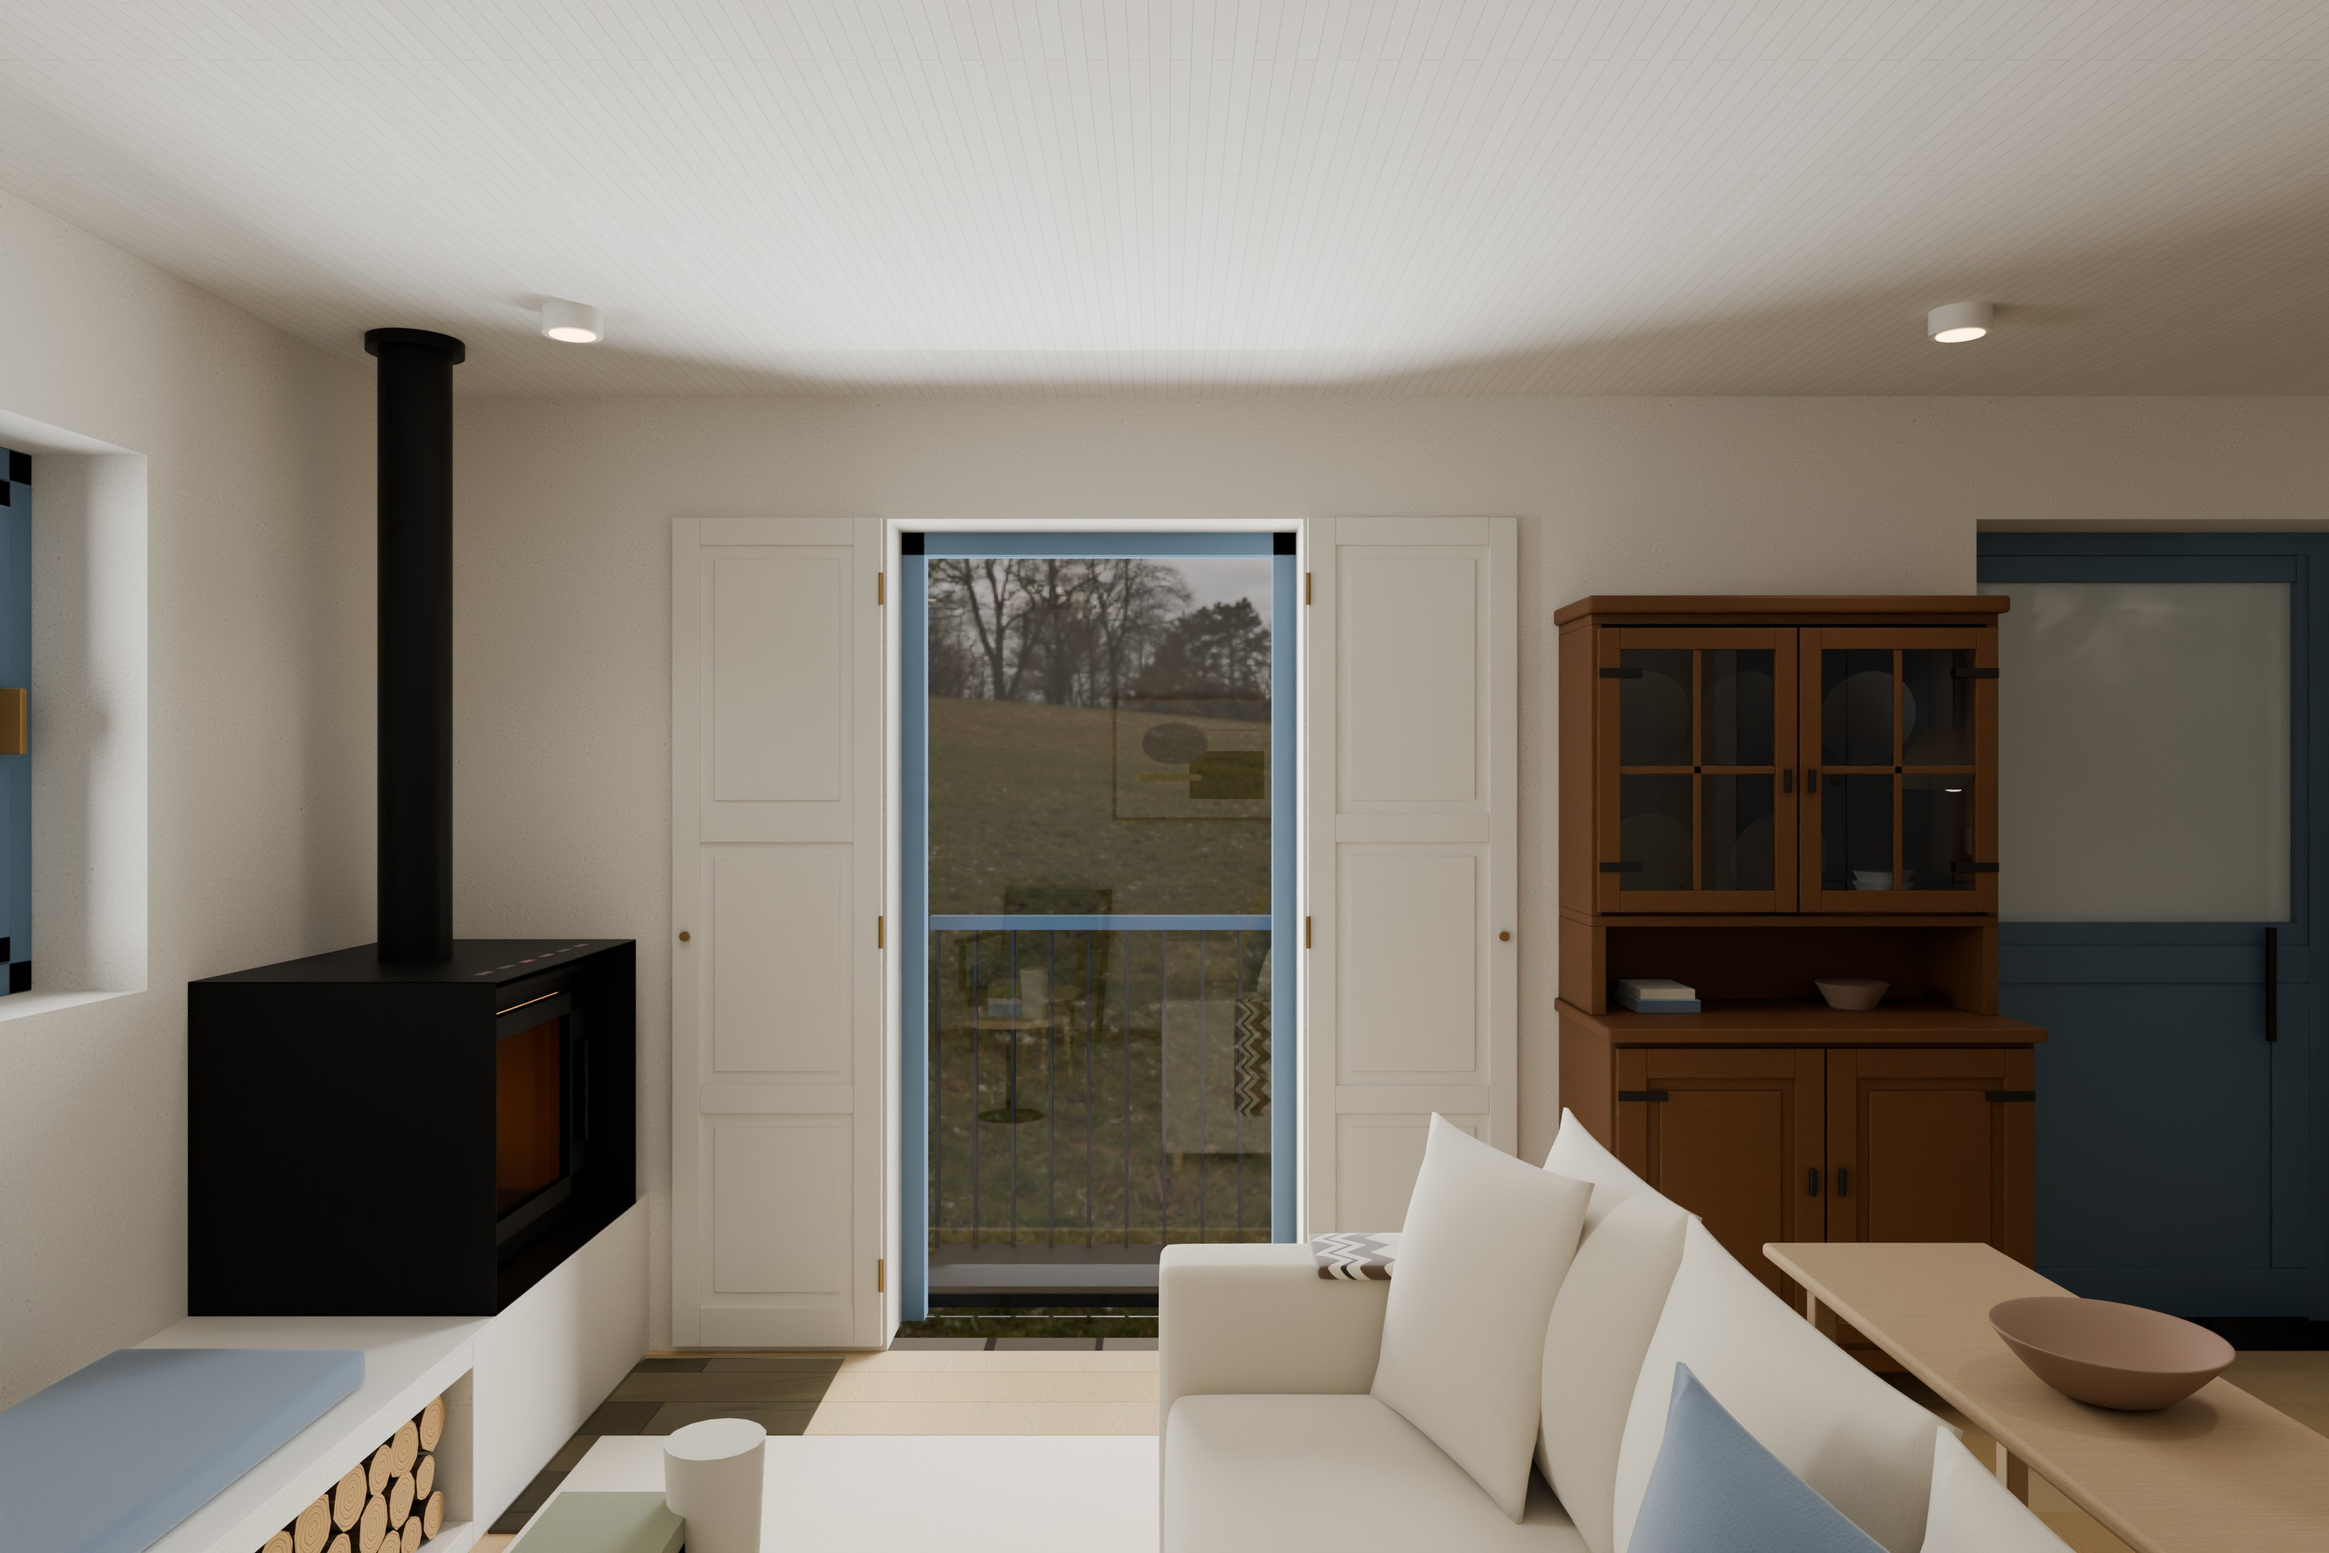
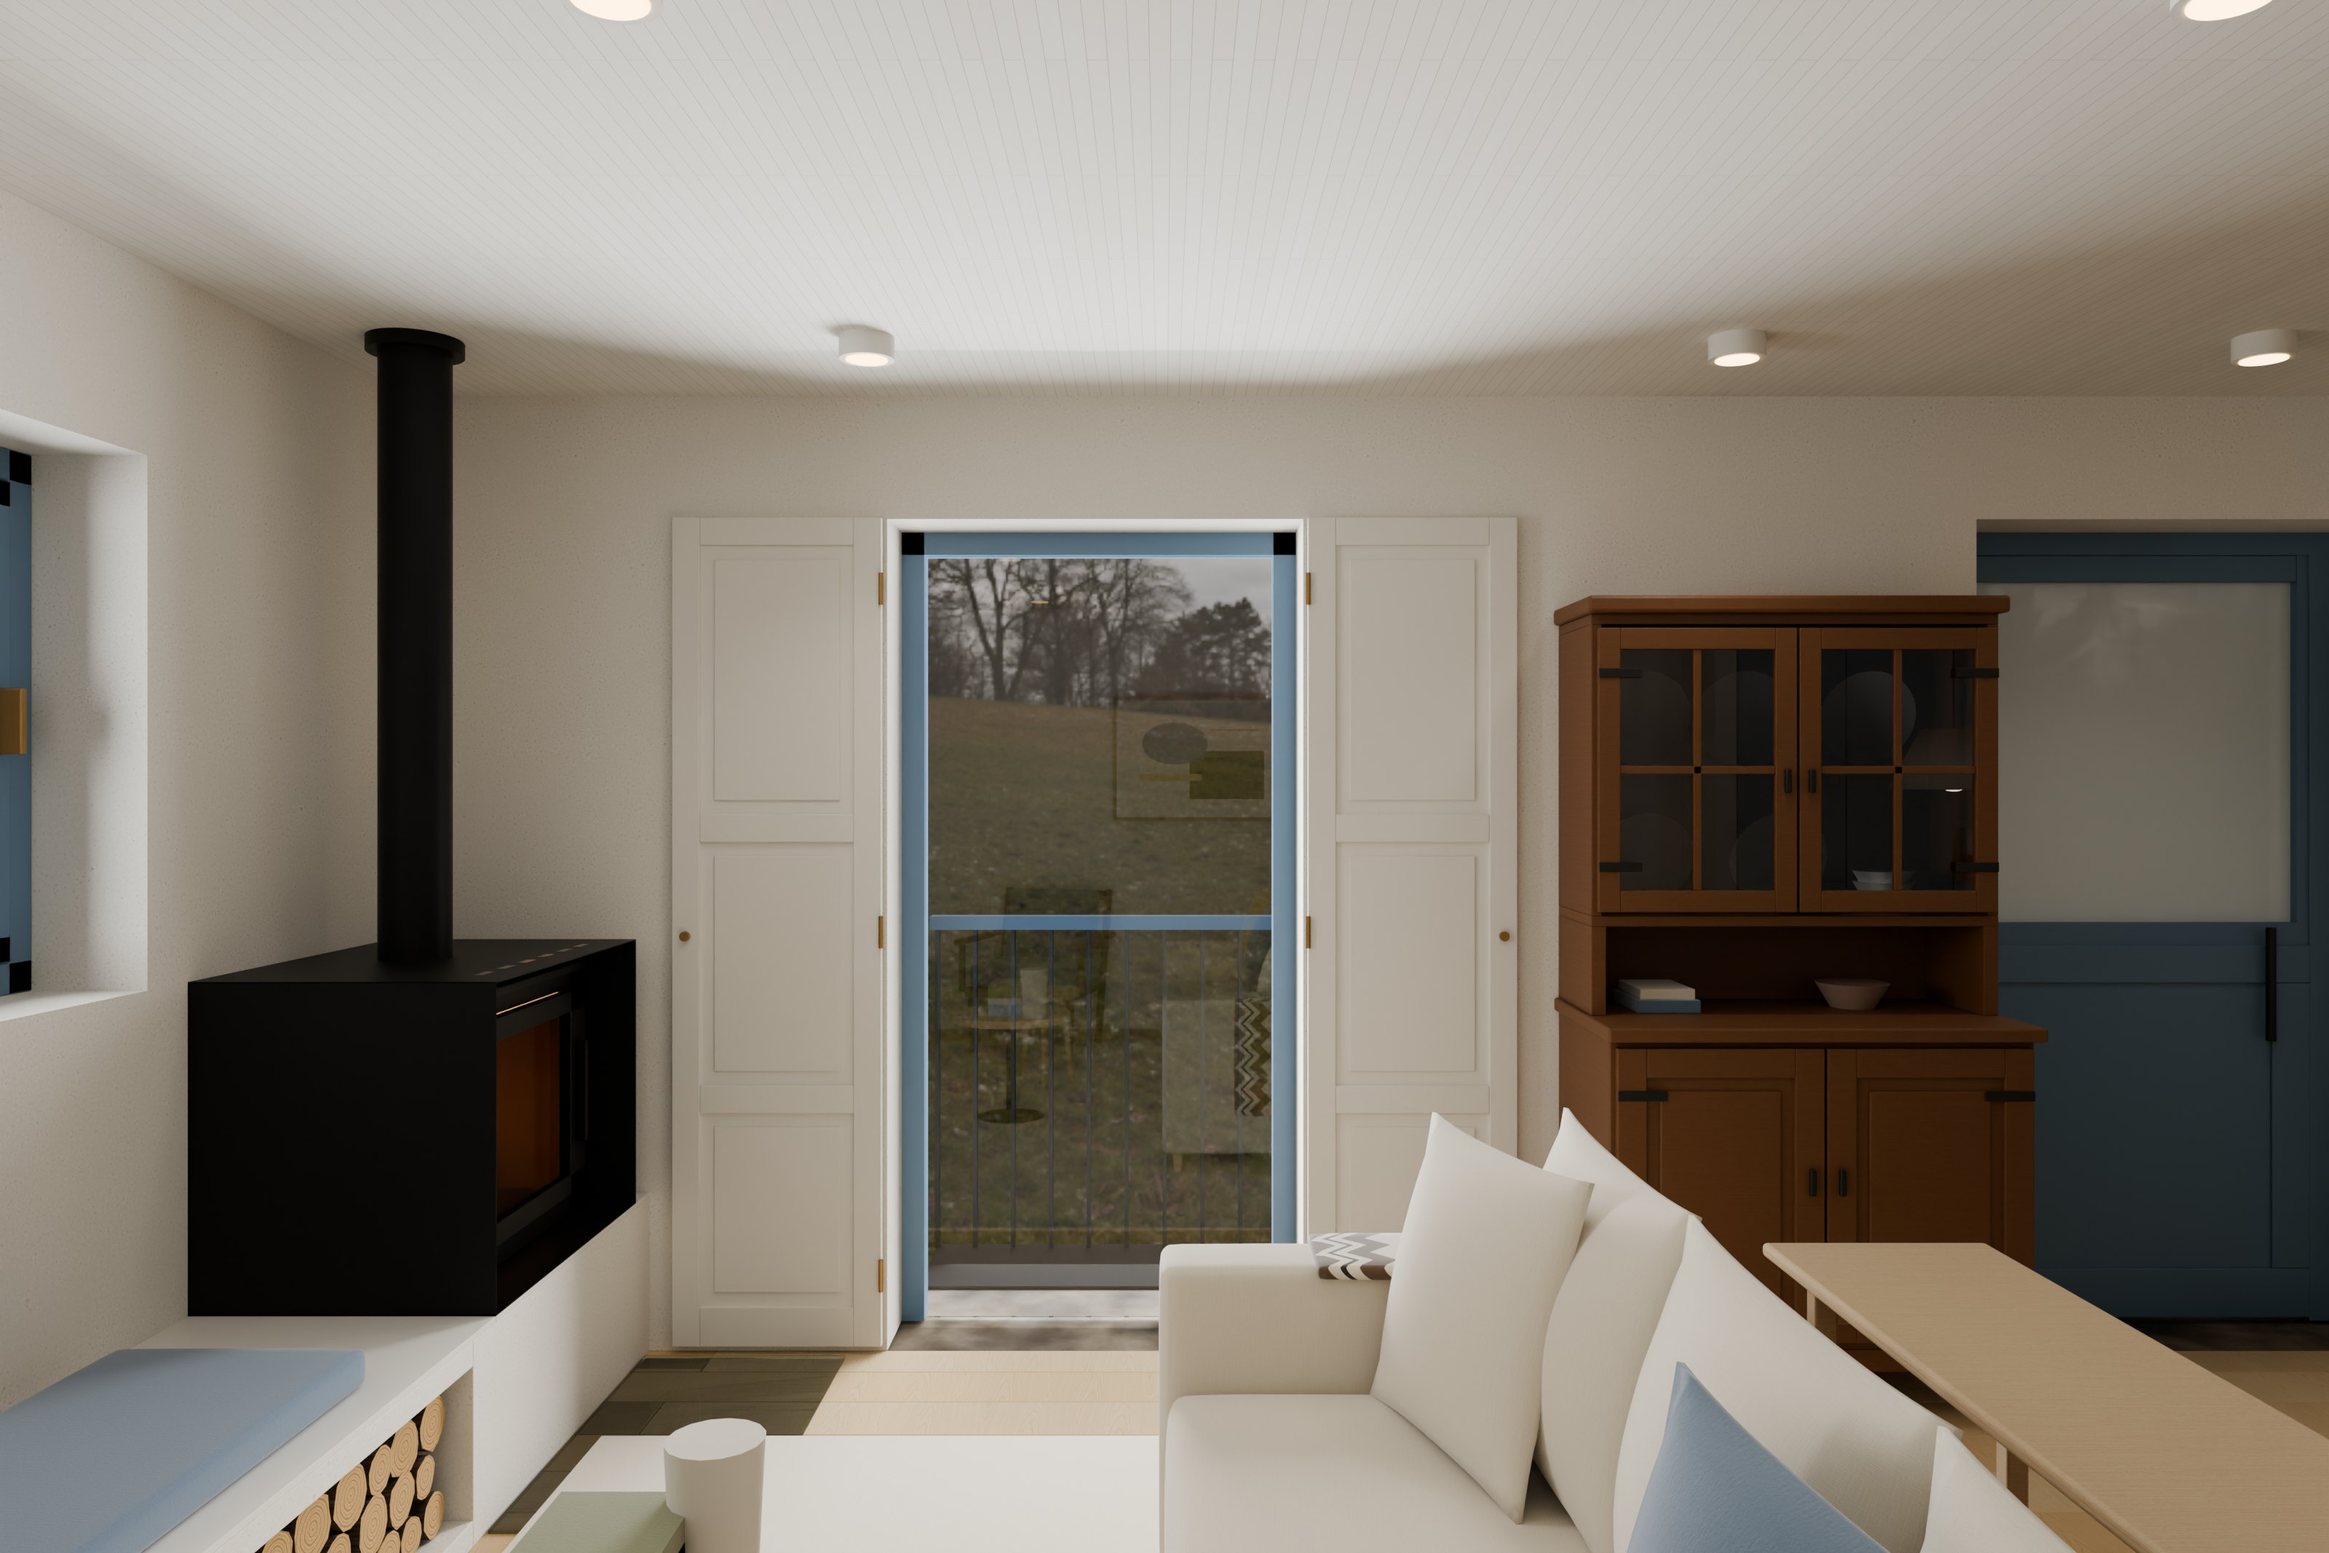
vistas da sala refeitas

diff --git a/index.html b/index.html
@@ -1207,8 +1207,8 @@ html body img.logo{background:none!important;box-shadow:none!important;border:0!
 
         <div class="sub ver"><h3>Sala</h3><span>25,8 m²</span></div>
         <p class="txt ver">Uma bancada baixa de 4,50 m reúne o recuperador, a lenha e a televisão. Uma consola de carvalho fica atrás do sofá e a mesa tem lugar para seis pessoas. Mantém-se o aparador antigo.</p>
-        <figure class="g8 ver"><img width="3200" height="2134" src="img/sala-recuperador.jpg" loading="lazy" decoding="async" alt="A parede sul da sala: bancada baixa a cal, nicho da lenha, recuperador preto e televisão."><figcaption class="etq">Parede da lareira</figcaption></figure>
-        <div class="g4 pilha"><figure class="ver"><img width="3200" height="2134" src="img/entrada.jpg" loading="lazy" decoding="async" alt="A sala vista da porta da rua, com a consola de carvalho atrás do sofá."><figcaption class="etq">Entrada</figcaption></figure><figure class="ver"><img width="3200" height="2134" src="img/sala-varanda.jpg" loading="lazy" decoding="async" alt="A sala com a porta-janela de portadas de madeira e o aparador antigo."><figcaption class="etq">Porta-janela</figcaption></figure></div>
+        <figure class="g8 ver"><img width="3200" height="2134" src="img/sala-recuperador.jpg?v=6" loading="lazy" decoding="async" alt="A parede sul da sala: bancada baixa a cal, nicho da lenha, recuperador preto e televisão."><figcaption class="etq">Parede da lareira</figcaption></figure>
+        <div class="g4 pilha"><figure class="ver"><img width="3200" height="2134" src="img/entrada.jpg?v=6" loading="lazy" decoding="async" alt="A sala vista da porta da rua, com a consola de carvalho atrás do sofá."><figcaption class="etq">Entrada</figcaption></figure><figure class="ver"><img width="3200" height="2134" src="img/sala-varanda.jpg?v=6" loading="lazy" decoding="async" alt="A sala com a porta-janela de portadas de madeira e o aparador antigo."><figcaption class="etq">Porta-janela</figcaption></figure></div>
 
         <div class="sub ver"><h3>Casa de banho</h3><span>4,3 m²</span></div>
         <p class="txt ver">O duche ocupa toda a largura do fundo e é revestido com o mesmo azulejo marfim da cozinha. A sanita e o bidé mantêm-se. O novo lavatório assenta num móvel de carvalho, com um espelho redondo iluminado por cima.</p>
@@ -1300,7 +1300,7 @@ html body img.logo{background:none!important;box-shadow:none!important;border:0!
         </ul>
         <div class="fecho-acoes ver"><a class="botao escuro so3d" href="passeio/index.html"><svg class="ph c-ic" viewBox="0 0 256 256" aria-hidden="true"><path d="M222.72,67.9l-88-48.17a13.9,13.9,0,0,0-13.44,0l-88,48.18A14,14,0,0,0,26,80.18v95.64a14,14,0,0,0,7.28,12.27l88,48.18a13.92,13.92,0,0,0,13.44,0l88-48.18A14,14,0,0,0,230,175.82V80.18A14,14,0,0,0,222.72,67.9ZM127,30.25a2,2,0,0,1,1.92,0L212.51,76,128,122.24,43.49,76ZM39,177.57a2,2,0,0,1-1-1.75V86.66l84,46V223Zm177.92,0L134,223V132.64l84-46v89.16A2,2,0,0,1,217,177.57Z"/></svg>Casa 3D</a><a class="volta" href="#documentos">Desenhos e documentos</a></div>
       </div>
-      <a class="fecho-porta" href="passeio/index.html" aria-label="Entrar na casa em 3D"><img width="3200" height="2134" src="img/entrada.jpg" loading="lazy" decoding="async" alt=""></a>
+      <a class="fecho-porta" href="passeio/index.html" aria-label="Entrar na casa em 3D"><img width="3200" height="2134" src="img/entrada.jpg?v=6" loading="lazy" decoding="async" alt=""></a>
     </div>
   </section>
 
